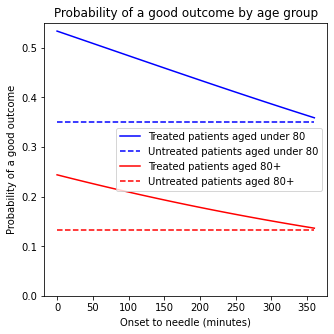
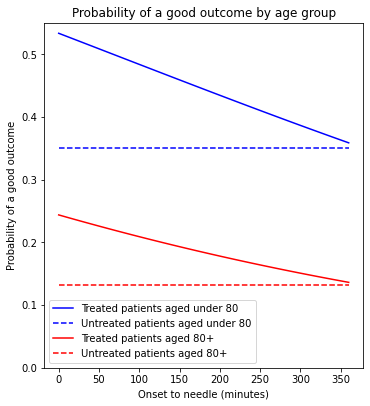
Update documentation

diff --git a/pathway_sim/thrombolysis_effect.html b/pathway_sim/thrombolysis_effect.html
@@ -677,7 +677,7 @@
 <h2>Plot outcomes as probability only<a class="headerlink" href="#plot-outcomes-as-probability-only" title="Permalink to this headline">¶</a></h2>
 <div class="cell docutils container">
 <div class="cell_input docutils container">
-<div class="highlight-ipython3 notranslate"><div class="highlight"><pre><span></span><span class="n">fig</span> <span class="o">=</span> <span class="n">plt</span><span class="o">.</span><span class="n">figure</span><span class="p">(</span><span class="n">figsize</span><span class="o">=</span><span class="p">(</span><span class="mi">5</span><span class="p">,</span><span class="mi">5</span><span class="p">))</span>
+<div class="highlight-ipython3 notranslate"><div class="highlight"><pre><span></span><span class="n">fig</span> <span class="o">=</span> <span class="n">plt</span><span class="o">.</span><span class="n">figure</span><span class="p">(</span><span class="n">figsize</span><span class="o">=</span><span class="p">(</span><span class="mf">5.5</span><span class="p">,</span><span class="mi">6</span><span class="p">))</span>
 
 <span class="c1"># Plot probability of good outcome</span>
 <span class="n">ax1</span> <span class="o">=</span> <span class="n">fig</span><span class="o">.</span><span class="n">add_subplot</span><span class="p">(</span><span class="mi">111</span><span class="p">)</span>
